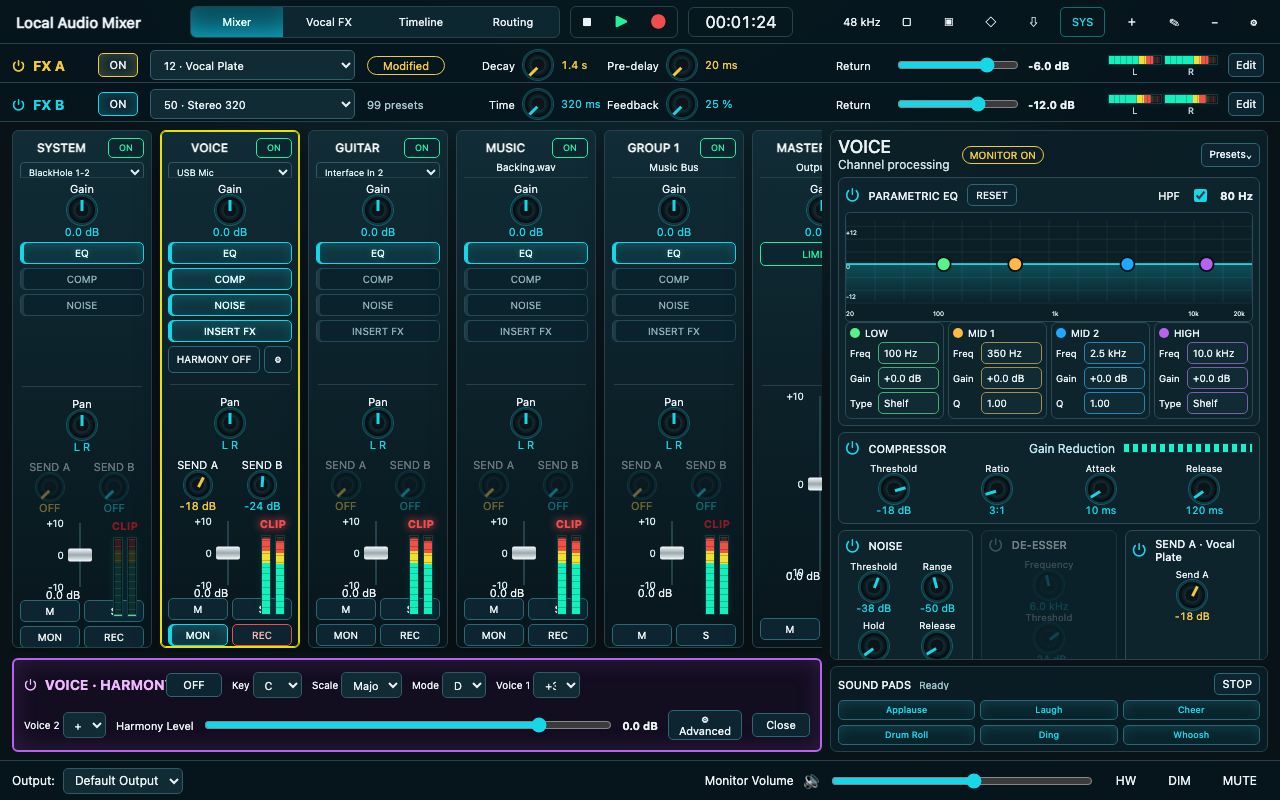
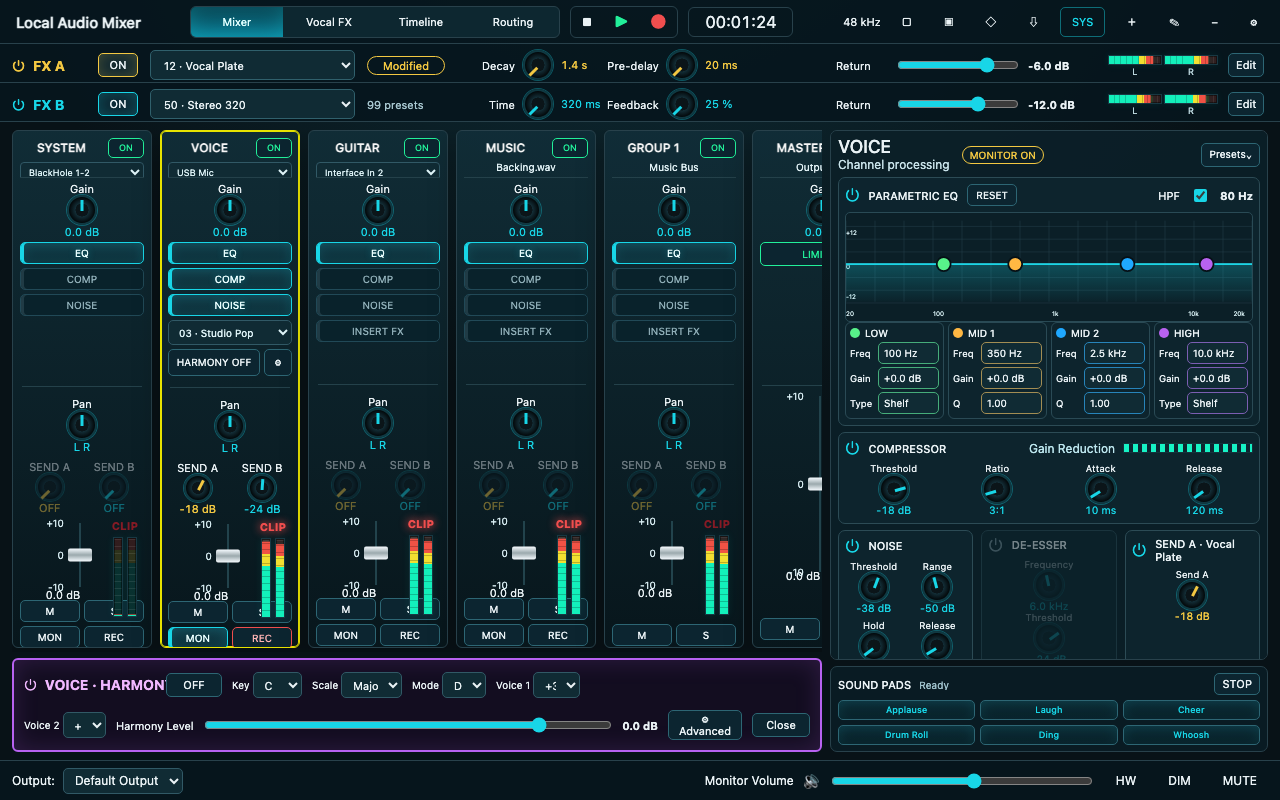
Add voice preset selector to channel strip

Changed region(s): [[0.125, 0.375, 0.25, 0.8125]]

diff --git a/apps/desktop/src/features/mixer/components/ChannelStrip.tsx b/apps/desktop/src/features/mixer/components/ChannelStrip.tsx
@@ -1,4 +1,4 @@
-import type { ChannelState, FxUnitId, ProcessorId } from "../../../adapters/MixerControlPort";
+import type { ChannelState, FxUnitId, ProcessorId, VocalFxPreset } from "../../../adapters/MixerControlPort";
 import { ClipIndicator } from "../../../components/audio/ClipIndicator";
 import { LevelMeter } from "../../../components/audio/LevelMeter";
 import { RotaryKnob } from "../../../components/audio/RotaryKnob";
@@ -8,6 +8,8 @@ import { Button } from "../../../components/ui/Button";
 interface ChannelStripProps {
   channel: ChannelState;
   sourceOptions: Array<{ value: string; label: string }>;
+  vocalFxPresetId: string;
+  vocalFxPresets: VocalFxPreset[];
   onSelect(): void;
   onEnabled(enabled: boolean): void;
   onSource(source: string): void;
@@ -20,12 +22,13 @@ interface ChannelStripProps {
   onMonitor(monitor: boolean): void;
   onRecordArm(armed: boolean): void;
   onProcessor(processorId: ProcessorId, enabled: boolean): void;
+  onVocalFxPreset(presetId: string): void;
   onClipReset(): void;
   onHarmonyToggle?(): void;
   onHarmonySettings?(): void;
 }
 
-export function ChannelStrip({ channel, sourceOptions, onSelect, onEnabled, onSource, onTrim, onPan, onFader, onSend, onMute, onSolo, onMonitor, onRecordArm, onProcessor, onClipReset, onHarmonyToggle, onHarmonySettings }: ChannelStripProps) {
+export function ChannelStrip({ channel, sourceOptions, vocalFxPresetId, vocalFxPresets, onSelect, onEnabled, onSource, onTrim, onPan, onFader, onSend, onMute, onSolo, onMonitor, onRecordArm, onProcessor, onVocalFxPreset, onClipReset, onHarmonyToggle, onHarmonySettings }: ChannelStripProps) {
   const isMaster = channel.kind === "master";
   const isGroup = channel.kind === "group";
   const meter = channel.enabled ? channel.meter : { left: -60, right: -60, clip: false };
@@ -44,7 +47,7 @@ export function ChannelStrip({ channel, sourceOptions, onSelect, onEnabled, onSo
         ) : <span>{channel.source}</span>}
       </header>
       <RotaryKnob label="Gain" value={`${channel.trimDb.toFixed(1)} dB`} numericValue={channel.trimDb} min={-24} max={24} step={0.5} onChange={onTrim} />
-      {isMaster ? <MasterUpperControls /> : <ProcessingButtons channel={channel} onProcessor={onProcessor} />}
+      {isMaster ? <MasterUpperControls /> : <ProcessingButtons channel={channel} vocalFxPresetId={vocalFxPresetId} vocalFxPresets={vocalFxPresets} onProcessor={onProcessor} onVocalFxPreset={onVocalFxPreset} />}
       {channel.harmonyVisible ? (
         <div className="harmony-shortcut">
           <Button tone="violet" active={channel.harmonyEnabled} onClick={onHarmonyToggle}>HARMONY {channel.harmonyEnabled ? "ON" : "OFF"}</Button>
@@ -71,13 +74,19 @@ export function ChannelStrip({ channel, sourceOptions, onSelect, onEnabled, onSo
   );
 }
 
-function ProcessingButtons({ channel, onProcessor }: { channel: ChannelState; onProcessor(processorId: ProcessorId, enabled: boolean): void }) {
+function ProcessingButtons({ channel, vocalFxPresetId, vocalFxPresets, onProcessor, onVocalFxPreset }: {
+  channel: ChannelState;
+  vocalFxPresetId: string;
+  vocalFxPresets: VocalFxPreset[];
+  onProcessor(processorId: ProcessorId, enabled: boolean): void;
+  onVocalFxPreset(presetId: string): void;
+}) {
   const buttons: Array<{ id: ProcessorId; label: string }> = [
     { id: "eq", label: "EQ" },
     { id: "comp", label: "COMP" },
     { id: "noise", label: "NOISE" }
   ];
-  if (channel.role !== "system") buttons.push({ id: "insertFx", label: "INSERT FX" });
+  if (channel.role !== "system" && channel.role !== "vocal") buttons.push({ id: "insertFx", label: "INSERT FX" });
 
   return (
     <div className="processing-buttons">
@@ -86,6 +95,18 @@ function ProcessingButtons({ channel, onProcessor }: { channel: ChannelState; on
           {button.label}
         </Button>
       ))}
+      {channel.role === "vocal" ? (
+        <select
+          className="channel-insert-preset"
+          value={channel.processing.insertFx ? vocalFxPresetId : "default"}
+          onChange={(event) => onVocalFxPreset(event.target.value)}
+          onClick={(event) => event.stopPropagation()}
+          aria-label="Voice preset"
+        >
+          <option value="default">Default</option>
+          {vocalFxPresets.map((preset) => <option key={preset.id} value={preset.id}>{preset.name}</option>)}
+        </select>
+      ) : null}
       {channel.role === "system" ? <div className="processor-slot-placeholder" aria-hidden="true" /> : null}
     </div>
   );

diff --git a/apps/desktop/src/features/mixer/components/ChannelBank.tsx b/apps/desktop/src/features/mixer/components/ChannelBank.tsx
@@ -1,9 +1,11 @@
-import type { ChannelState, ProcessorId } from "../../../adapters/MixerControlPort";
+import type { ChannelState, ProcessorId, VocalFxPreset } from "../../../adapters/MixerControlPort";
 import { ChannelStrip } from "./ChannelStrip";
 
 interface ChannelBankProps {
   channels: ChannelState[];
   sourceOptions: Record<string, Array<{ value: string; label: string }>>;
+  vocalFxPresetId: string;
+  vocalFxPresets: VocalFxPreset[];
   onSelect(channelId: string): void;
   onEnabled(channelId: string, enabled: boolean): void;
   onSource(channelId: string, source: string): void;
@@ -16,12 +18,13 @@ interface ChannelBankProps {
   onMonitor(channelId: string, monitor: boolean): void;
   onRecordArm(channelId: string, armed: boolean): void;
   onProcessor(channelId: string, processorId: ProcessorId, enabled: boolean): void;
+  onVocalFxPreset(channelId: string, presetId: string): void;
   onClipReset(channelId: string): void;
   onHarmonyToggle(): void;
   onHarmonySettings(channelId: string): void;
 }
 
-export function ChannelBank({ channels, sourceOptions, onSelect, onEnabled, onSource, onTrim, onPan, onFader, onSend, onMute, onSolo, onMonitor, onRecordArm, onProcessor, onClipReset, onHarmonyToggle, onHarmonySettings }: ChannelBankProps) {
+export function ChannelBank({ channels, sourceOptions, vocalFxPresetId, vocalFxPresets, onSelect, onEnabled, onSource, onTrim, onPan, onFader, onSend, onMute, onSolo, onMonitor, onRecordArm, onProcessor, onVocalFxPreset, onClipReset, onHarmonyToggle, onHarmonySettings }: ChannelBankProps) {
   return (
     <section className="channel-bank">
       {channels.map((channel) => (
@@ -29,6 +32,8 @@ export function ChannelBank({ channels, sourceOptions, onSelect, onEnabled, onSo
           key={channel.id}
           channel={channel}
           sourceOptions={sourceOptions[channel.id] ?? []}
+          vocalFxPresetId={vocalFxPresetId}
+          vocalFxPresets={vocalFxPresets}
           onSelect={() => onSelect(channel.id)}
           onEnabled={(enabled) => onEnabled(channel.id, enabled)}
           onSource={(source) => onSource(channel.id, source)}
@@ -41,6 +46,7 @@ export function ChannelBank({ channels, sourceOptions, onSelect, onEnabled, onSo
           onMonitor={(monitor) => onMonitor(channel.id, monitor)}
           onRecordArm={(armed) => onRecordArm(channel.id, armed)}
           onProcessor={(processorId, enabled) => onProcessor(channel.id, processorId, enabled)}
+          onVocalFxPreset={(presetId) => onVocalFxPreset(channel.id, presetId)}
           onClipReset={() => onClipReset(channel.id)}
           onHarmonyToggle={onHarmonyToggle}
           onHarmonySettings={() => onHarmonySettings(channel.id)}

diff --git a/apps/desktop/src/features/mixer/MixerPage.tsx b/apps/desktop/src/features/mixer/MixerPage.tsx
@@ -570,6 +570,8 @@ export function MixerPage() {
           <ChannelBank
             channels={displayChannels}
             sourceOptions={sourceOptions}
+            vocalFxPresetId={snapshot.vocalFx.activePresetId}
+            vocalFxPresets={snapshot.vocalFx.presets}
             onSelect={(id) => refresh(() => adapter.selectChannel(id))}
             onEnabled={(id, enabled) => {
               const nextSnapshot = refresh(() => adapter.setChannelEnabled(id, enabled));
@@ -604,6 +606,14 @@ export function MixerPage() {
                 });
                 setVocalFxOpen(true);
               }
+            }}
+            onVocalFxPreset={(id, presetId) => {
+              const enabled = presetId !== "default";
+              refreshLiveProcessing(() => {
+                adapter.selectChannel(id);
+                adapter.setChannelProcessor(id, "insertFx", enabled);
+                if (enabled) adapter.applyVocalFxPreset(presetId);
+              });
             }}
             onClipReset={(id) => refresh(() => adapter.resetClip(id))}
             onHarmonyToggle={() => void setHarmonyEnabled(!adapter.getSnapshot().harmony.enabled)}

diff --git a/tests/ui/visual.visual.ts b/tests/ui/visual.visual.ts
@@ -49,6 +49,10 @@ test("preview controls mutate visible mixer state", async ({ page }) => {
   await expect(voiceStrip.getByRole("button", { name: "EQ", exact: true })).toHaveClass(/is-active/);
   await voiceStrip.getByRole("button", { name: "NOISE", exact: true }).click();
   await expect(voiceStrip.getByRole("button", { name: "NOISE", exact: true })).not.toHaveClass(/is-active/);
+  await voiceStrip.getByLabel("Voice preset").selectOption("default");
+  await expect(voiceStrip.getByLabel("Voice preset")).toHaveValue("default");
+  await voiceStrip.getByLabel("Voice preset").selectOption("voice-12-robot");
+  await expect(voiceStrip.getByLabel("Voice preset")).toHaveValue("voice-12-robot");
 
   await page.getByLabel("FX program").first().selectOption("50");
   await expect(page.getByLabel("FX program").first()).toHaveValue("50");

diff --git a/apps/desktop/src/styles/app.css b/apps/desktop/src/styles/app.css
@@ -80,6 +80,8 @@
 .processing-buttons { display: grid; gap: 5px; }
 .processing-buttons .ui-button:not(.is-active) { color: #8faeb7; border-color: #214957; background: #09222b; box-shadow: inset 3px 0 0 rgba(95, 126, 137, 0.28); }
 .processing-buttons .ui-button.is-active { text-shadow: 0 0 7px rgba(24, 214, 231, 0.36); }
+.channel-insert-preset { width: 100%; min-width: 0; min-height: 25px; color: #dff4f8; background: #102b34; border: 1px solid #315966; border-radius: 5px; padding: 0 6px; font-size: 10px; font-weight: 420; }
+.channel-insert-preset:focus { outline: 1px solid var(--cyan); outline-offset: 1px; }
 .processor-slot-placeholder { min-height: 24px; visibility: hidden; }
 .master-upper { display: grid; grid-template-rows: 24px 1fr; gap: 4px; min-height: 140px; }
 .master-upper-spacer { min-height: 101px; }

diff --git a/docs/progress.md b/docs/progress.md
@@ -3813,3 +3813,31 @@ Validation:
 
 Known limitations:
 - Manual listening confirmation that all 99 preset names produce clearly distinct perceptual voice characters is `NOT_RUN`; current implementation maps the 99 names onto available native rack archetypes until deeper factory parameter authoring is completed.
+
+### Phase19 UX Checkpoint — Put Vocal Preset Selector On Channel Strip
+
+Changed files:
+- `apps/desktop/src/features/mixer/components/ChannelBank.tsx`: passed vocal preset state/options and selection handler into channel strips.
+- `apps/desktop/src/features/mixer/components/ChannelStrip.tsx`: replaced the vocal channel `INSERT FX` button with a `Voice preset` combobox containing `Default` plus the 99 vocal presets.
+- `apps/desktop/src/features/mixer/MixerPage.tsx`: made `Default` bypass the insert path and made preset selections enable INSERT FX and apply the chosen vocal preset through the existing native sync path.
+- `apps/desktop/src/styles/app.css`: styled the channel-strip voice preset combobox.
+- `tests/ui/visual.visual.ts`: covered switching VOICE to `Default` and back to a concrete preset from the strip.
+- `docs/progress.md`: recorded verification evidence.
+
+Implemented behavior:
+- The vocal strip no longer exposes INSERT FX as an abstract ON/OFF button for the primary workflow.
+- `Default` means dry voice with vocal insert bypassed.
+- Choosing any named vocal preset from the channel strip turns the vocal insert on and applies that preset without opening the rack modal.
+
+Validation:
+- command: `npm run typecheck`
+- exit/result: `0`; TypeScript passed.
+- command: `npm run test:ui`
+- exit/result: `0`; Vitest 50/50 passed.
+- command: `npm run test:visual`
+- exit/result: `0`; Playwright visual suite 6/6 passed.
+- command: `npm run verify`
+- exit/result: `0`; plan, file-size, architecture, typecheck, Vitest 50/50, native CTest 43/43, engine self-test, device enumeration smoke, protocol smoke, UI build, and Electron main/preload build passed.
+
+Known limitations:
+- Manual live-mic listening confirmation of every channel-strip preset selection is `NOT_RUN`; automated coverage verifies UI state and native sync path.
